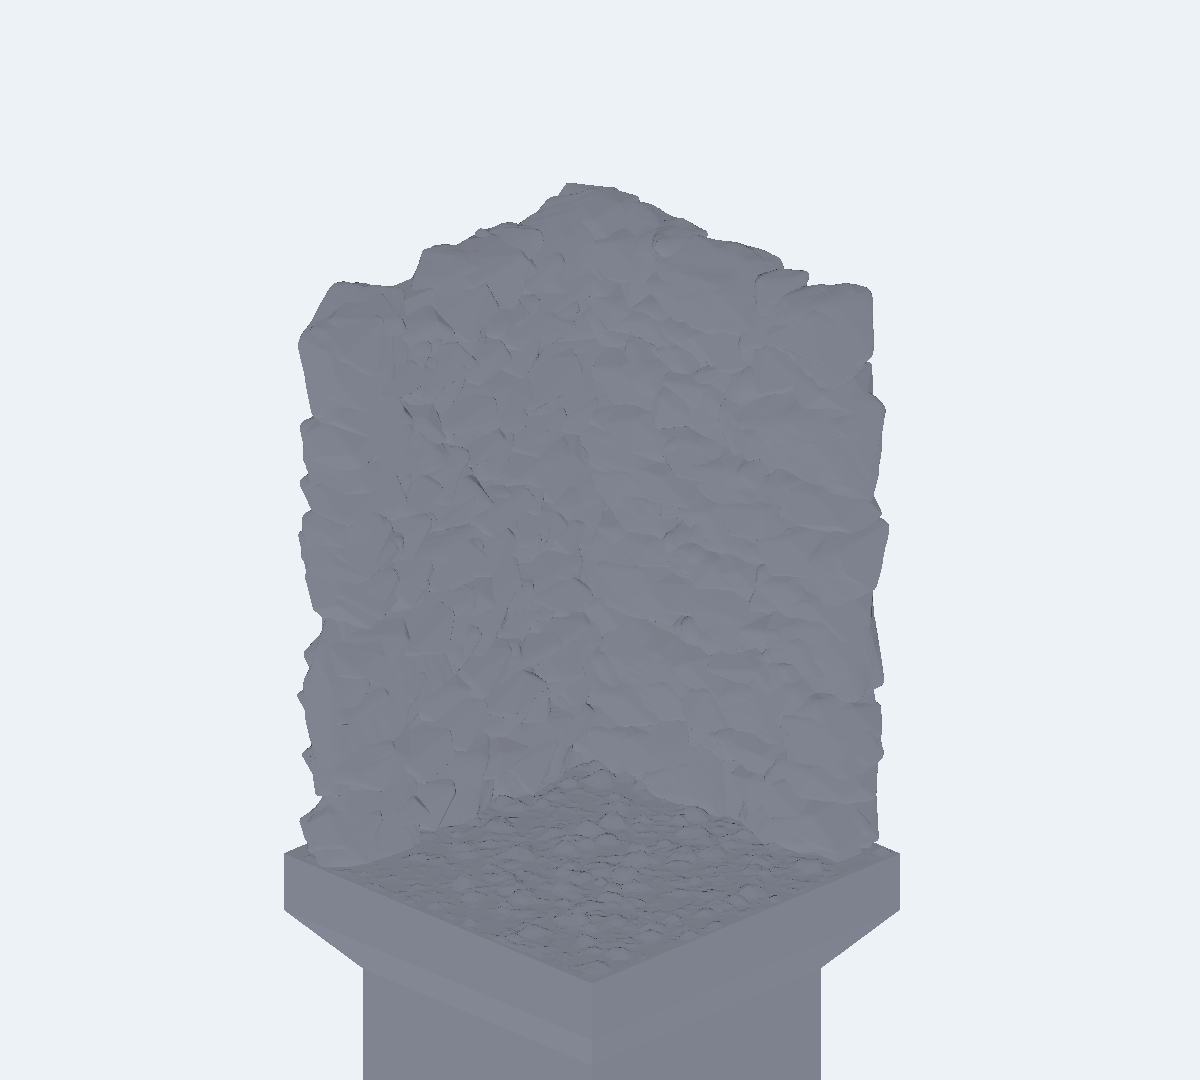
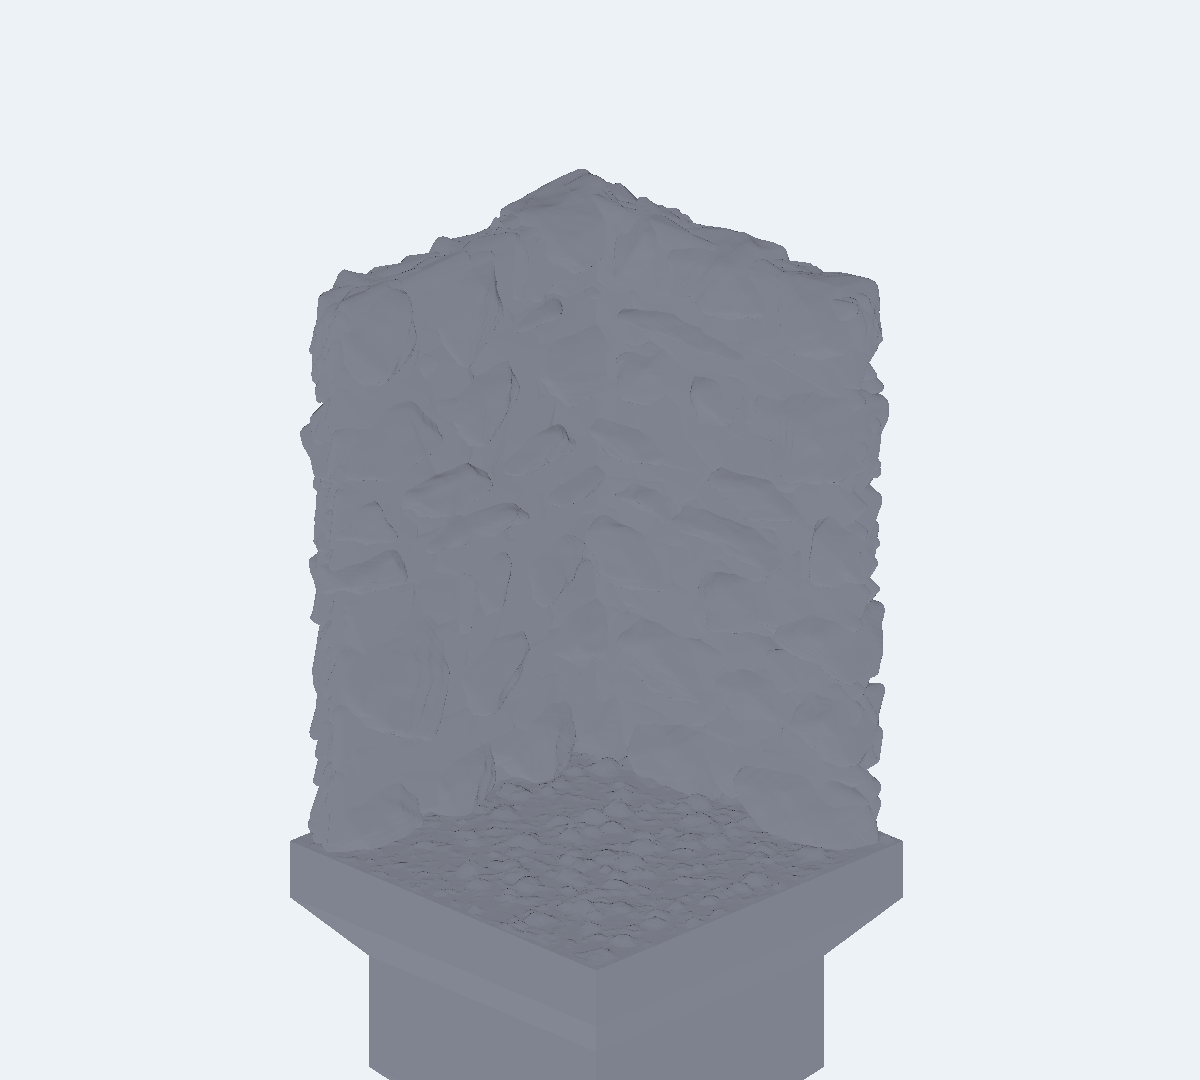
Walls: fieldstone E10 — stacked distinct stones, zero-mortar by construction
Round-6 (Shawn: rocks can't overlap; fused rocks, not a carefully
stacked pile; look at the reference):

- NO overlap anywhere: E9's joint-midline overlap erased the dark
  outline gap around every stone — which IS the stacked read in the
  drystone reference. Stones exact-fit their jointed cells; real 0.9mm
  gaps; overlap/bulge machinery deleted
- pins deleted: they straddle joint crossings and would fuse with
  neighbours under the no-overlap rule; the hearting owns gap depth
- rubble hearting is now the sealed layer, by construction: footprint
  >=2x pitch (hull corners recede ~25% inside their boxes — box-touch
  spacing left 3.8% measured coverage holes), TWO y-layers staggered
  half-pitch in t and z, setback 1.6mm vs core reveal 2.8mm (0.15
  buried the coursing under rubble; 2.0 vs reveal 2.2 leaked oblique
  rays past rubble edges)
- red-mortar metric: 0.00-0.06% on all five views (was 17% at E9r1)

Instrument lesson (design doc E10): the flat-shaded diagnostic cannot
show gap-depth contrast (no shadows) — over-tuning against it (wider
joints, domed faces) mushed the real-light read; reverted to the
diag7 stone geometry and judge on pyrender/MeshLab.

Claude-Session: https://claude.ai/code/session_01N52X1qVoRMnzi1jxnvUHEL

diff --git a/src/dharmatiles/walls/fieldstone.py b/src/dharmatiles/walls/fieldstone.py
@@ -34,13 +34,14 @@ from ..scatter.stones import _blur_remesh, _relief_field, _round_edges
 from .masonry import CutStoneWall, _Cell, _Seg, _RELIEF_WAVES
 
 # ── Iteration knobs (module constants while prototyping) ─────────────────────
-_BLOCKINESS       = (0.55, 0.85)  # ellipsoid↔box blend for body stones —
-                                  # below ~0.5 the silhouette recedes
-                                  # between hull corners and the shared
-                                  # edges open into mortar channels
-                                  # (red diagnostic, round 2)
-_QUOIN_BLOCKINESS = (0.70, 0.90)  # corner stones: same unit, squarer
-_CAP_BLOCKINESS   = (0.60, 0.85)  # coping stones flat-topped and squarer
+_BLOCKINESS       = (0.42, 0.78)  # ellipsoid↔box blend for body stones —
+                                  # wide range = the reference's mix of
+                                  # rounded and squarish stones; with real
+                                  # gaps + hearting behind them (E10) the
+                                  # rounder end no longer opens mortar
+                                  # channels, so the E9 floor is relaxed
+_QUOIN_BLOCKINESS = (0.65, 0.88)  # corner stones: same unit, squarer
+_CAP_BLOCKINESS   = (0.55, 0.80)  # coping stones flat-topped and squarer
 _LUMP             = (0.90, 1.0)   # per-point radius jitter
 _DIR_JITTER       = 0.12          # support-direction jitter
 _FLATTEN          = (0.50, 0.80)  # vertical squash of support directions:
@@ -55,28 +56,31 @@ _FLATTEN_Y        = (0.35, 0.60)  # face squash — broad flattish face patch
                                   # (mortar diagnostic: tangent bellies covered
                                   # ~half the face; red sea between stones)
 _FLATTEN_X_END    = (0.55, 0.80)  # end squash for wall-end stones only
-_OVERLAP_MM       = 0.45          # stones overlap past joint midlines by
-                                  # this — stacked stones TOUCH; the union
-                                  # merges contacts into bedding creases
-_BULGE_MM         = 0.35          # residual vertical swell into joints
+# Stones NEVER overlap (E10, Shawn + the drystone reference photo):
+# a carefully stacked pile reads through the dark outline gap around
+# EVERY stone; unioned overlaps erase those outlines and the wall
+# fuses into one lumpy mass.  Gaps are real (joint_mm), and the rubble
+# hearting behind them is what makes a gap read as stone-filled depth
+# instead of mortar.
 _THROUGH_FRAC     = 0.20          # fraction of eligible cells merged with
                                   # the cell above into a throughstone
-_PIN_PROB         = 1.0           # chance of a pinning stone at each
-                                  # joint/course-line crossing — the star-
-                                  # shaped voids four rounded shoulders
-                                  # open up ("every space filled with a
-                                  # rock", round-4)
-_PIN_W            = (2.5, 5.0)    # pinning stone width
-_PIN_H            = (2.2, 4.2)    # pinning stone height
 _REMESH_SIGMA     = 0.9           # aged read (stones convention)
-_RUBBLE_SPACING_MM = 4.8          # hearting grid pitch over each face
-_RUBBLE_FOOT      = (6.0, 9.5)    # rubble footprint ≥ pitch → the sheet
-                                  # seals by overlap: any void between big
-                                  # stones is a window onto rubble, never
-                                  # onto the flat core ("mortar plane")
-_RUBBLE_H         = (3.8, 6.2)
-_RUBBLE_SETBACK_MM = 0.15         # rubble faces sit this far behind the
-                                  # wall face planes (reads as depth)
+_RUBBLE_SPACING_MM = 4.2          # hearting grid pitch over each face
+_RUBBLE_FOOT      = (8.5, 11.0)   # ≥2× pitch: hull corners recede ~25 %
+                                  # inside their boxes, so box-touching is
+                                  # NOT enough — coverage is guaranteed
+                                  # only when each stone's box overlaps
+                                  # its neighbour by more than the
+                                  # recession (measured 3.8 % box-level
+                                  # holes at 1.3–2× pitch, E10)
+_RUBBLE_H         = (5.5, 7.5)    # ≥1.3× pitch vertically, same rule
+_RUBBLE_SETBACK_MM = 1.6          # rubble faces sit this far behind the
+                                  # wall face planes: deep enough that the
+                                  # face stones stay the wall (at 0.15 the
+                                  # big-footprint rubble reached the face
+                                  # plane and BURIED the coursing — E10),
+                                  # shallow enough to still front the core
+                                  # (reveal 2.2) through every gap
 
 
 def _fieldstone_mesh(lx: float, ly: float, lz: float, blockiness: float,
@@ -151,8 +155,8 @@ class FieldstoneWall(CutStoneWall):
     def __init__(self, spine, *,
                  course_mm: tuple[float, float] = (3.2, 8.8),
                  bay_mm:    tuple[float, float] = (4.5, 16.0),
-                 joint_mm:  float = 0.4,
-                 reveal_mm: float = 2.2,
+                 joint_mm:  float = 0.9,
+                 reveal_mm: float = 2.8,
                  roundover_mm: float | None = 0.45,
                  relief_mm:    float | None = 0.12,
                  relief_wl:    tuple[float, float] | None = (2.0, 7.0),
@@ -214,81 +218,7 @@ class FieldstoneWall(CutStoneWall):
                 break
         out = [c for c in cells if c.key not in drop]
         out.extend(merged)
-        out.extend(self._pin_cells(out, segs, H, rng))
         return out
-
-    def _pin_cells(self, cells: list[_Cell], segs: list[_Seg], H: float,
-                   rng: np.random.Generator) -> list[_Cell]:
-        """Small pinning stones wedged where a vertical joint crosses a
-        course line — filling the voids that rounded shoulders open."""
-        throughs = [c for c in cells if len(c.key) == 4]
-        pins: list[_Cell] = []
-        n = 0
-        for c in cells:
-            segL = segs[c.seg].L
-            # Throughstone flanks: a double-height stone's waist narrows
-            # at the course line it spans, and its neighbours' shoulders
-            # open a void there that the crossing pins never cover (the
-            # crossing itself was consumed by the merge).
-            if len(c.key) == 4 and c.key[3] == 'through':
-                z_mids = {t.z1 for t in cells
-                          if len(t.key) == 3 and t.seg == c.seg
-                          and c.z0 + 0.5 < t.z1 < c.z1 - 0.5}
-                for z_mid in z_mids:
-                    for t_edge in (c.t0, c.t1):
-                        if rng.random() > 0.8:
-                            continue
-                        w = rng.uniform(*_PIN_W)
-                        h = rng.uniform(*_PIN_H)
-                        t0 = np.clip(t_edge - w / 2.0, 0.5, segL - 0.5 - w)
-                        pins.append(_Cell(
-                            seg=c.seg, t0=float(t0), t1=float(t0 + w),
-                            end0='joint', end1='joint',
-                            z0=float(z_mid - h / 2.0),
-                            z1=float(z_mid + h / 2.0),
-                            is_top=False, is_bottom=False,
-                            key=(-1, c.seg, n, 'pin'),
-                        ))
-                        n += 1
-                continue
-            if c.end0 != 'joint':
-                continue
-            for z_line in (c.z0, c.z1):
-                if not 1.0 < z_line < H - 1.0:
-                    # Cap joints get their own flush pins below.
-                    continue
-                if rng.random() > _PIN_PROB:
-                    continue
-                if any(t.seg == c.seg and t.z0 < z_line < t.z1
-                       and t.t0 - 1.0 < c.t0 < t.t1 + 1.0
-                       for t in throughs):
-                    continue
-                w = rng.uniform(*_PIN_W)
-                h = rng.uniform(*_PIN_H)
-                t0 = np.clip(c.t0 - w / 2.0, 0.5, segL - 0.5 - w)
-                pins.append(_Cell(
-                    seg=c.seg, t0=float(t0), t1=float(t0 + w),
-                    end0='joint', end1='joint',
-                    z0=float(z_line - h / 2.0), z1=float(z_line + h / 2.0),
-                    is_top=False, is_bottom=False,
-                    key=(-1, c.seg, n, 'pin'),
-                ))
-                n += 1
-            # Cap-joint pins: a small stone flush with the cap plane
-            # filling the dip between two coping stones.
-            if c.is_top and rng.random() < _PIN_PROB:
-                w = rng.uniform(*_PIN_W)
-                h = rng.uniform(*_PIN_H)
-                t0 = np.clip(c.t0 - w / 2.0, 0.5, segL - 0.5 - w)
-                pins.append(_Cell(
-                    seg=c.seg, t0=float(t0), t1=float(t0 + w),
-                    end0='joint', end1='joint',
-                    z0=float(H - h), z1=float(H),
-                    is_top=True, is_bottom=False,
-                    key=(-1, c.seg, n, 'pin'),
-                ))
-                n += 1
-        return pins
 
     # ── rubble hearting ──────────────────────────────────────────────────────
     def _extra_parts(self, segs: list[_Seg], seat_z: float,
@@ -301,43 +231,51 @@ class FieldstoneWall(CutStoneWall):
         any gap between face stones shows deeper stones, exactly like
         a real drystone wall's packed core.
         """
-        import trimesh as _t
         T, H = self.thickness_mm, self.height_mm
         sb = _RUBBLE_SETBACK_MM
+        # TWO y-layers, half-pitch staggered in t and z (E10): with one
+        # layer, a face gap aligned with a rubble-rubble gap leaks a
+        # sight line onto the core; the offset back layer backs every
+        # front-layer gap.  Layers meet at mid-thickness (hidden).
+        y_bands = [(sb, 0.55 * T), (0.45 * T, T - sb)]
         parts = []
         for seg in segs:
-            nt = max(2, int(round(seg.L / _RUBBLE_SPACING_MM)))
-            nz = max(2, int(round((H - 3.0) / _RUBBLE_SPACING_MM)))
-            for i in range(nt):
-                for j in range(nz):
-                    # Half-pitch stagger per row (brick bond): aligned
-                    # grid crevices can line up with face voids and leak
-                    # a red pinhole through both layers.
-                    tc = ((i + 0.5 + 0.5 * (j % 2)
-                           + rng.uniform(-0.3, 0.3)) * seg.L / nt)
-                    zc = 1.2 + (j + 0.5 + rng.uniform(-0.3, 0.3)) \
-                        * (H - 3.0) / nz
-                    w = rng.uniform(*_RUBBLE_FOOT)
-                    h = rng.uniform(*_RUBBLE_H)
-                    t0 = np.clip(tc - w / 2.0, 0.3, seg.L - 0.3 - w)
-                    body = _fieldstone_mesh(
-                        w, T - 2 * sb, h,
-                        rng.uniform(0.25, 0.55), False,
-                        0.35, 0.0, self.relief_wl, rng,
-                        flatten_y=rng.uniform(0.5, 0.8), aged=False)
-                    b0, b1 = body.bounds
-                    tgt0 = np.array([t0, sb, zc - h / 2.0])
-                    tgt1 = np.array([t0 + w, T - sb, zc + h / 2.0])
-                    body.apply_translation(-b0)
-                    body.apply_scale((tgt1 - tgt0) / (b1 - b0))
-                    body.apply_translation(tgt0)
-                    m = np.eye(4)
-                    m[:2, 0] = seg.d
-                    m[:2, 1] = seg.n
-                    m[:2, 3] = seg.a
-                    m[2, 3] = seat_z
-                    body.apply_transform(m)
-                    parts.append(body)
+            nt = max(2, int(round(seg.L / _RUBBLE_SPACING_MM)) + 1)
+            nz = max(2, int(round(H / _RUBBLE_SPACING_MM)) + 1)
+            for layer, (y0, y1) in enumerate(y_bands):
+                off = 0.5 * layer
+                for i in range(nt):
+                    for j in range(nz):
+                        # Half-pitch stagger per row (brick bond) AND
+                        # per layer.  Row centres span 0..H edge to edge
+                        # (clips pull boundary stones inside).
+                        tc = ((i + 0.5 * (j % 2) + off
+                               + rng.uniform(-0.25, 0.25))
+                              * seg.L / (nt - 1))
+                        zc = ((j + off + rng.uniform(-0.25, 0.25))
+                              * H / (nz - 1))
+                        w = rng.uniform(*_RUBBLE_FOOT)
+                        h = rng.uniform(*_RUBBLE_H)
+                        t0 = np.clip(tc - w / 2.0, 0.3, seg.L - 0.3 - w)
+                        z0 = np.clip(zc - h / 2.0, 0.2, H - 0.6 - h)
+                        body = _fieldstone_mesh(
+                            w, y1 - y0, h,
+                            rng.uniform(0.25, 0.55), False,
+                            0.35, 0.0, self.relief_wl, rng,
+                            flatten_y=rng.uniform(0.5, 0.8), aged=False)
+                        b0, b1 = body.bounds
+                        tgt0 = np.array([t0, y0, z0])
+                        tgt1 = np.array([t0 + w, y1, z0 + h])
+                        body.apply_translation(-b0)
+                        body.apply_scale((tgt1 - tgt0) / (b1 - b0))
+                        body.apply_translation(tgt0)
+                        m = np.eye(4)
+                        m[:2, 0] = seg.d
+                        m[:2, 1] = seg.n
+                        m[:2, 3] = seg.a
+                        m[2, 3] = seat_z
+                        body.apply_transform(m)
+                        parts.append(body)
         return parts
 
     # ── the unit ─────────────────────────────────────────────────────────────
@@ -352,8 +290,6 @@ class FieldstoneWall(CutStoneWall):
         else:
             blockiness = rng.uniform(*_BLOCKINESS)
 
-        up = 0.0 if cell.is_top else rng.uniform(0.0, _BULGE_MM)
-        dn = 0.0 if cell.is_bottom else rng.uniform(0.0, _BULGE_MM)
         # Build OVERSIZE so rounding keeps real curvature, then EXACT-FIT
         # rescale to the target box.  This replaces shave compensation
         # (round-4 fix): guessing the roundover+blur shave either leaves
@@ -366,21 +302,16 @@ class FieldstoneWall(CutStoneWall):
         fx = (rng.uniform(*_FLATTEN_X_END)
               if 'face' in (cell.end0, cell.end1) else 1.0)
         c = _PACK_COMP_MM
-        body = _fieldstone_mesh(lx + c, ly + c, lz + up + dn + c,
+        body = _fieldstone_mesh(lx + c, ly + c, lz + c,
                                 blockiness, cell.is_top or cell.is_quoin,
                                 self.roundover_mm, self.relief_mm,
                                 self.relief_wl, rng,
                                 flatten_y=fy, flatten_x=fx)
-        # Target box overlaps joint midlines (stacked stones touch);
-        # face/end planes and the cap stay exact.
-        ov = self.joint_mm / 2.0 + _OVERLAP_MM
-        ox0 = ov if cell.end0 == 'joint' else 0.0
-        ox1 = ov if cell.end1 == 'joint' else 0.0
-        oz0 = 0.0 if cell.is_bottom else ov
-        oz1 = 0.0 if cell.is_top else ov
+        # Target box IS the jointed cell (E10): stones never overlap —
+        # the outline gap around every stone is the stacked read.
         b0, b1 = body.bounds
-        target0 = np.array([-ox0, 0.0, -dn - oz0])
-        target1 = np.array([lx + ox1, ly, lz + up + oz1])
+        target0 = np.array([0.0, 0.0, 0.0])
+        target1 = np.array([lx, ly, lz])
         body.apply_translation(-b0)
         body.apply_scale((target1 - target0) / (b1 - b0))
         body.apply_translation(target0)

diff --git a/docs/design/walls-coursed-masonry.md b/docs/design/walls-coursed-masonry.md
@@ -180,7 +180,8 @@ unioned surface — the DB set-13 signature).
 | E6 | **FieldstoneWall** (family 3, `walls/fieldstone.py`): same chassis, unit = hull of Fibonacci points on an ellipsoid↔box blend (`blockiness`), lumpiness, vertical bulge into deep joints, flat coping cap, squared quoins. Three sub-iterations: (a) inscribed ellipsoids read "pebbles stuck on a slab" → blockiness up, joints tighter; (b) roundover+blur shave ~1.5 mm and reopen the joints → `_PACK_COMP_MM` oversizes each stone before rounding; (c) rounded BUTTING stones curve away from the corner arris leaving V-notches → both cells at a corner are quoin-class (squared, chipped-preset params) | **Shawn: "terrible"** — flatter stones; stones (not bricks) in the corner; nearly touching; more irregular sizes |
 | E7 | Fieldstone rework per round-3: (a) slab squash of support directions (`_FLATTEN`) — stones are flat-laid slabs; (b) corner quoins are the same fieldstone unit at high blockiness, `_block_mesh` bricks removed from this wall; (c) size irregularity from the GRID (wider course/bay ranges + `_cells` post-pass merging ~1/5 of cells into double-height throughstones), never from under-filling — an under-filled cell exposes flat core = "pebbles glued on a slab" (re-found); (d) packing: `_PACK_COMP_MM` 2.1 applied in ALL THREE axes — y (thickness) compensation was missing, so roundover+blur left every stone nearly flush with the core and the wall read as a flat slab with faint lumps (the standalone strip test missed it: no core to compare against); joint 0.4 | **Shawn**: outside has flat-faced rocks; fill every space (more small rocks); full rock faces on top/sides; mortar mostly invisible |
 | E8 | (a) **Exact-fit rescale replaces shave compensation**: build oversize (rounding keeps curvature), then rescale each stone to its target box — bellies tangent to face planes by construction; the flat outside faces were the tile-boundary clip planing off stones whose compensated bulge overshot the outer plane (guessing the shave is unstable in both directions); (b) **pinning stones**: small stones at joint × course-line crossings (`_PIN_PROB` 0.55) fill the star voids four rounded shoulders open, plus flush cap-joint pins; (c) reveal 1.6 — with tangent packing the core shows only deep in crevices | **Shawn: "not enough"** — render mortar RED, top+4 sides, iterate until it reads STACKED FIELDSTONES, not fieldstones in mortar |
-| E9 | **Red-mortar diagnostic** (`src/extras/wall_mortar_diag.py`: core red, stones grey, no union, top+4 sides, red-pixel fraction printed; below-soil clipped). Round 1 measured 17 % red on faces — a rounded stone touches its face plane at ONE TANGENT POINT, so straight-on the wall was stones floating in mortar. Fixes, in causal order: (a) `_FLATTEN_Y` face squash — builders turn the flattest side out; broad face patches (17→9 %); (b) `_OVERLAP_MM` past joint midlines — stacked stones TOUCH, union merges contacts into bedding creases; blockiness floor 0.55 — below ~0.5 the hull silhouette recedes between corners and shared edges open into channels (9→4.6 %); (c) through-flank pins + `_PIN_PROB` 1.0 (4.6→3.5 %); (d) **rubble hearting** (`_extra_parts` hook): the by-construction end-state — pins chase voids case-by-case but void shapes are unpredictable; a half-pitch-staggered overlapping sheet of cheap rubble stones (hull+roundover only, no remesh) through the wall body makes every void a window onto deeper stones, never onto the core plane (3.5→**0.4–0.8 %**, and the leftover flecks read as deep-void shadow) | pending Shawn |
+| E9 | **Red-mortar diagnostic** (`src/extras/wall_mortar_diag.py`: core red, stones grey, no union, top+4 sides, red-pixel fraction printed; below-soil clipped). Round 1 measured 17 % red on faces — a rounded stone touches its face plane at ONE TANGENT POINT, so straight-on the wall was stones floating in mortar. Fixes, in causal order: (a) `_FLATTEN_Y` face squash — builders turn the flattest side out; broad face patches (17→9 %); (b) `_OVERLAP_MM` past joint midlines — stacked stones TOUCH, union merges contacts into bedding creases; blockiness floor 0.55 — below ~0.5 the hull silhouette recedes between corners and shared edges open into channels (9→4.6 %); (c) through-flank pins + `_PIN_PROB` 1.0 (4.6→3.5 %); (d) **rubble hearting** (`_extra_parts` hook): the by-construction end-state — pins chase voids case-by-case but void shapes are unpredictable; a half-pitch-staggered overlapping sheet of cheap rubble stones (hull+roundover only, no remesh) through the wall body makes every void a window onto deeper stones, never onto the core plane (3.5→**0.4–0.8 %**, and the leftover flecks read as deep-void shadow) | **Shawn: "rocks can't overlap — fused rocks, not a carefully stacked pile; look at the reference"** |
+| E10 | **No overlap anywhere** — the E9 overlap erased the dark outline around every stone, which IS the stacked read (reference photo). Stones exact-fit their jointed cells (joint 0.9 real gaps); overlap/bulge deleted; pins deleted (they straddle crossings → would fuse; hearting owns gap depth). Hearting became the sealed layer: footprint ≥2× pitch (hull corners recede ~25 % in their boxes — box-touching left 3.8 % measured holes), two y-layers staggered half-pitch in t AND z, setback 1.6 vs core reveal 2.8 (at setback 0.15 the rubble BURIED the coursing; at 2.0 vs reveal 2.2 oblique rays leaked past rubble edges). Red 0.00–0.06 % all five views. Instrument lesson: the flat-shaded diagnostic under-reads gap-depth contrast (no shadows) — over-tuning against it (wider joints, domed faces) mushed the real-light read; final judgment on the pyrender PNG + MeshLab | pending Shawn |
 
 Implementation notes: blocks finish through `_blur_remesh` (σ 0.7) —
 `subdivide_to_size` leaves T-junctions that break the manifold union.
